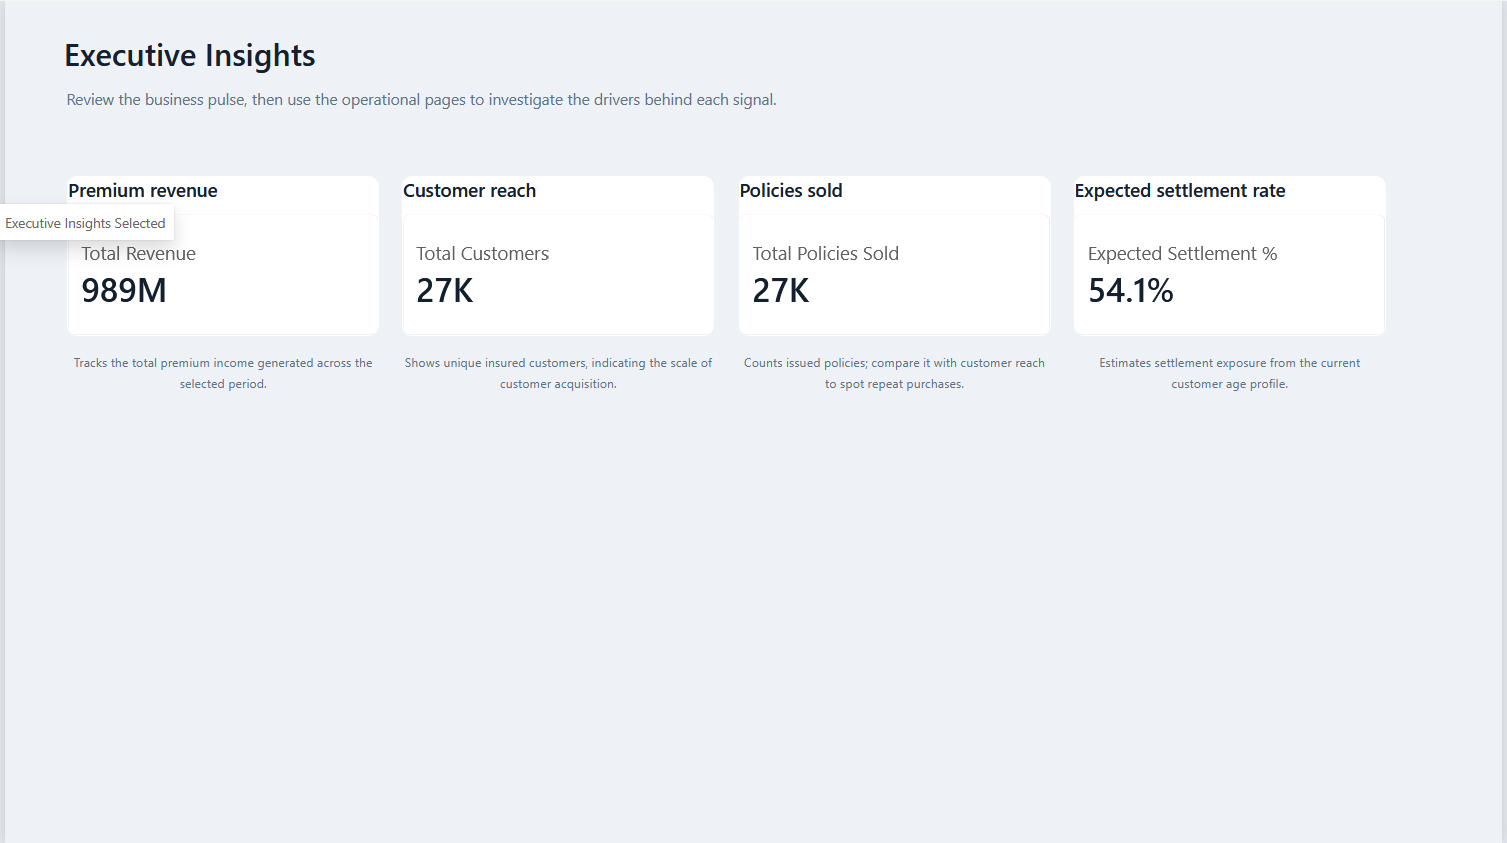
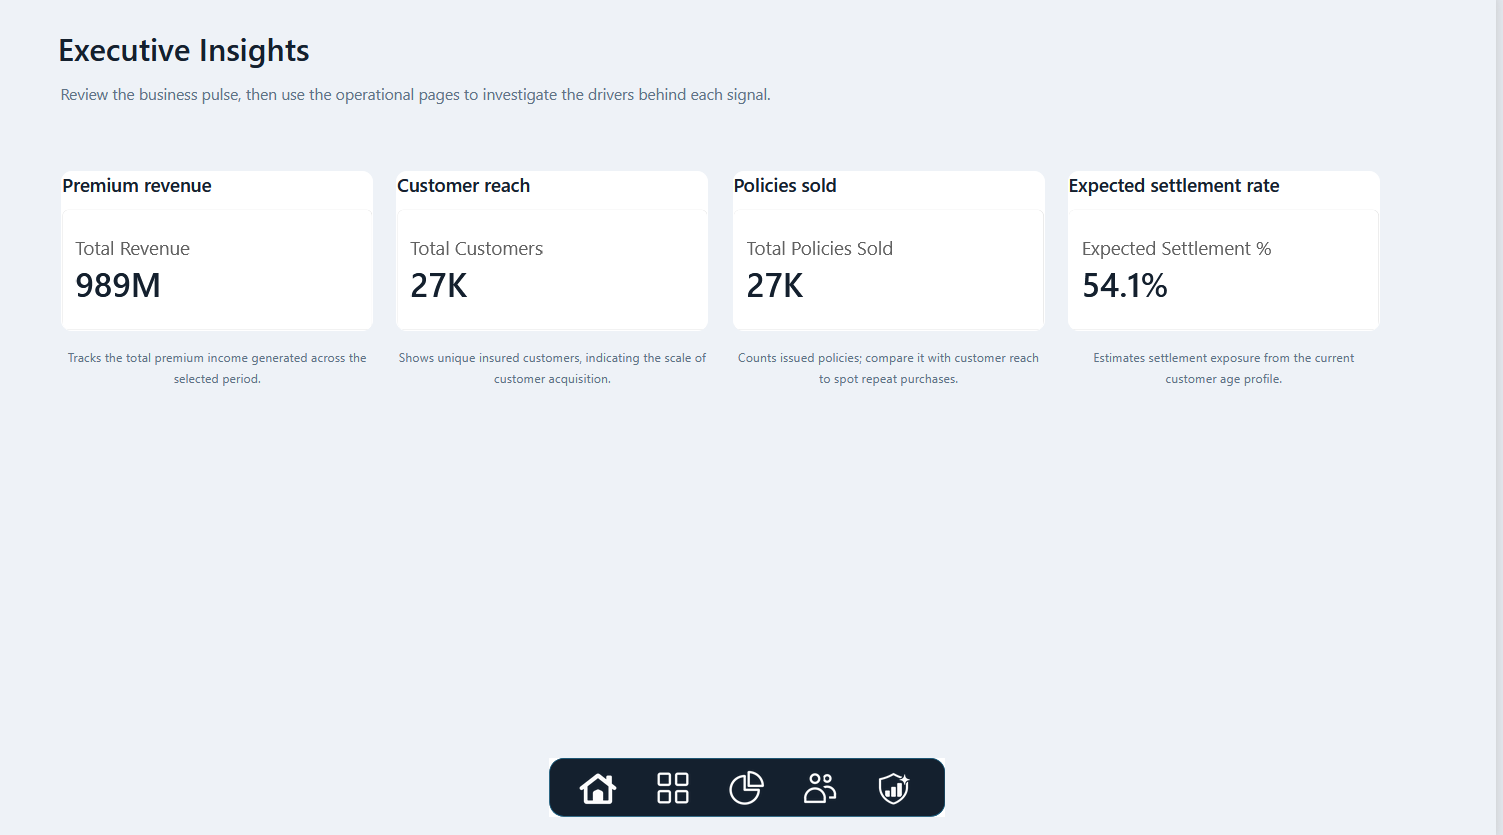
docs: update Executive Insights image and move section after Age Group Analysis

diff --git a/README.md b/README.md
@@ -41,31 +41,31 @@ This dashboard empowers leadership and business analysts to monitor key insuranc
 
 ## 📊 Dashboard Pages & Visual Walkthrough
 
-### 1. Executive Insights
-A high-level executive pulse highlighting core top-line metrics: total premium income, customer reach, policy count, and portfolio-level expected settlement rate.
-
-![Executive Insights](./Executive%20Insights.png)
-
----
-
-### 2. Insurance Performance Overview (General View)
+### 1. Insurance Performance Overview (General View)
 A cross-sectional operational cockpit tracking monthly trend trajectories, city-level market contributions, and customer distribution by age group.
 
 ![Insurance Performance Overview](./Insurance%20Performance%20Overview.png)
 
 ---
 
-### 3. Sales Mode Analysis
+### 2. Sales Mode Analysis
 A channel-performance deep dive breaking down customer acquisition and revenue share across distribution channels (Offline Agents, Online App, Online Website, Offline Direct).
 
 ![Sales Performance](./sales%20view.png)
 
 ---
 
-### 4. Age Group Analysis & Risk Exposure
+### 3. Age Group Analysis & Risk Exposure
 An actuarial and demographic segmentation evaluating policy affinity, sales channel preferences, customer volume, and expected settlement rates across age cohorts.
 
 ![Age Group Analysis](./Age%20Group%20Analysis.png)
+
+---
+
+### 4. Executive Insights
+A high-level executive pulse highlighting core top-line metrics: total premium income, customer reach, policy count, and portfolio-level expected settlement rate.
+
+![Executive Insights](./Executive%20Insights.png)
 
 ---
 
@@ -160,10 +160,10 @@ An actuarial and demographic segmentation evaluating policy affinity, sales chan
 ├── project.SemanticModel/                     # Semantic Model (TMDL schema & DAX measures)
 ├── dax_metrics_list.xlsx                      # DAX metrics documentation
 ├── Shield_Insurance_Dashboard_Guide_for_Mathew.docx  # Handover & executive user guide
-├── Executive Insights.png                     # Screenshot: Executive Overview Page
 ├── Insurance Performance Overview.png         # Screenshot: General View Page
 ├── sales view.png                             # Screenshot: Sales Channel Performance Page
 ├── Age Group Analysis.png                     # Screenshot: Demographic & Risk Analysis Page
+├── Executive Insights.png                     # Screenshot: Executive Overview Page
 └── README.md                                  # Project documentation & insights
 ```
 
